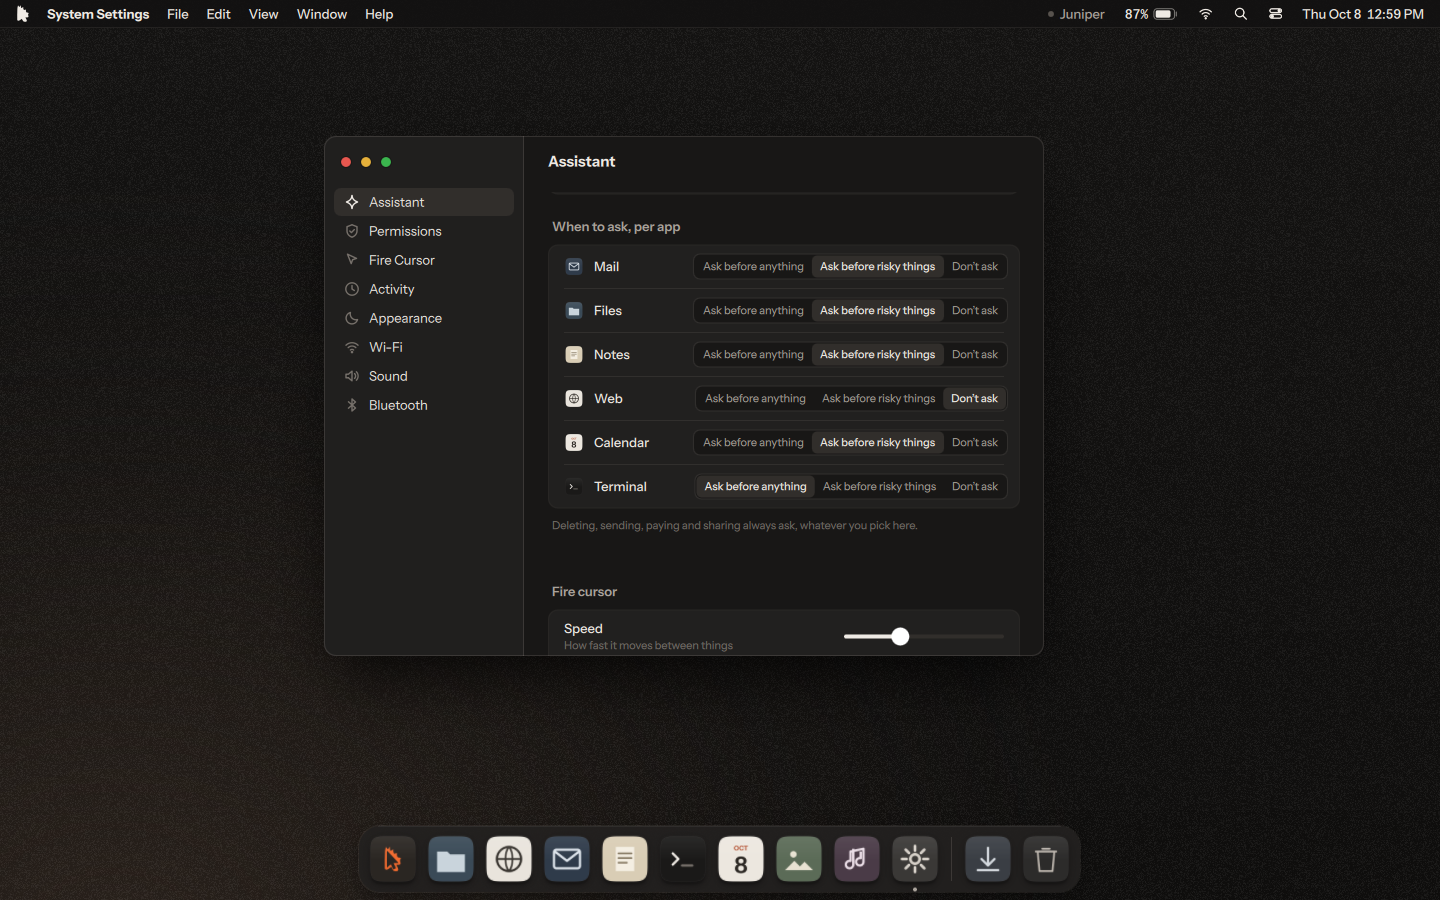
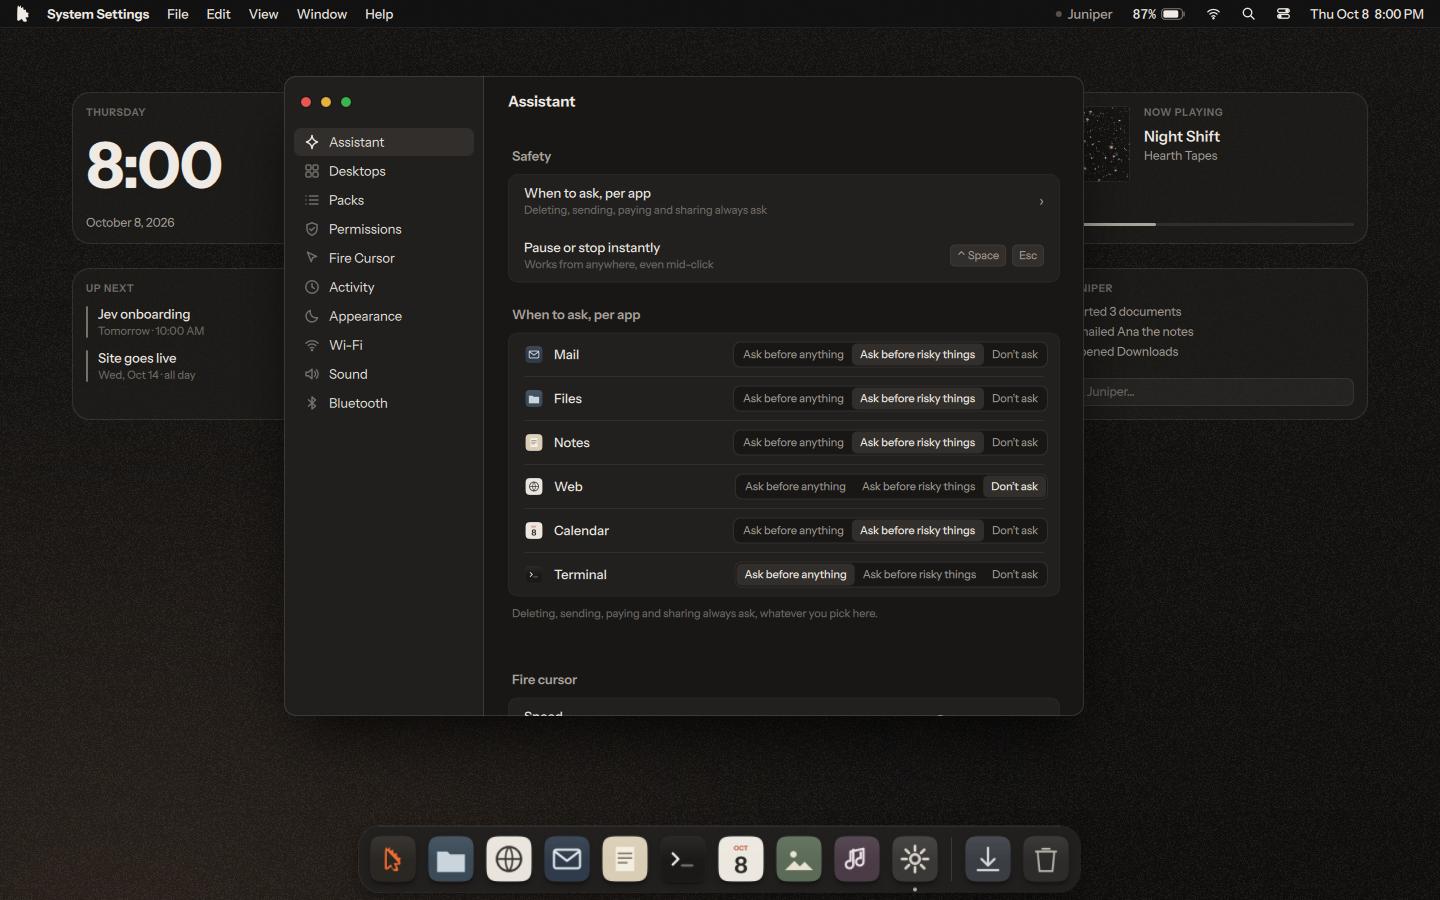
Recorder: trust capture scrolls to the per-app group under the new Effort list
Claude-Session: https://claude.ai/code/session_01B11KmgS7KywUE1jfuntsyj

diff --git a/tools/qml_capture.py b/tools/qml_capture.py
@@ -281,7 +281,7 @@ elif scene == "trust":
     at(300, lambda: call("launch", "settings"))
     at(1200, lambda: call("setTrust", "terminal", "all"))
     at(1300, lambda: call("setTrust", "web", "never"))
-    at(1500, lambda: call("settingsScroll", 230))
+    at(1500, lambda: call("settingsScroll", 640))
     still("settings-trust", 2400)
     at(2500, lambda: (call("setTrust", "terminal", "risky"), call("setTrust", "web", "risky")))
     stop(2800)
